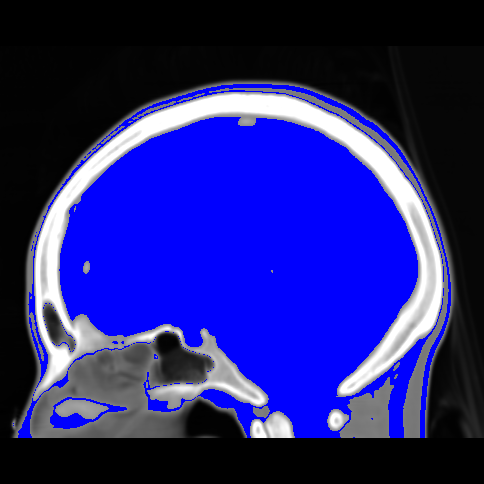
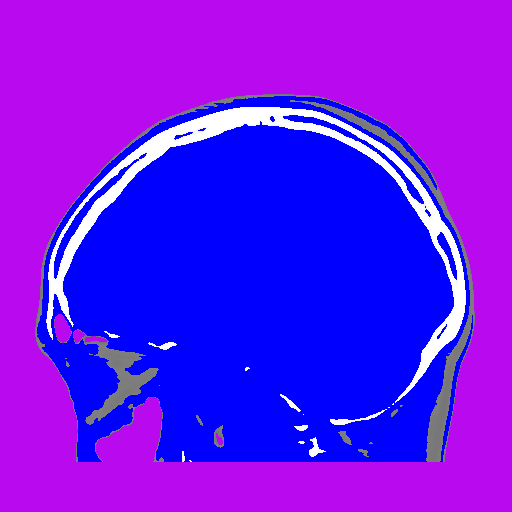
-

diff --git a/Librerias Lectura DICOM/Prueba Garo/Read_File_DICOM_Interfaz.py b/Librerias Lectura DICOM/Prueba Garo/Read_File_DICOM_Interfaz.py
@@ -13,7 +13,8 @@ Colores = {'azul' : (HexToDec('00'), HexToDec('00'), HexToDec('ff')),
 		   'amarillo' : (239, 235, 9),
 		   'naranja' : (239, 174, 9),
 		   'morado' : (185, 9, 239),
-		   'verde' : (44, 239, 9)
+		   'verde' : (44, 239, 9),
+		   'negro' : (0, 0, 0)
 		  }
 
 
@@ -32,6 +33,8 @@ def Umbralizacion(x, y, pixeles):
 			if j >= x + 1000 and j <= y + 1000:
 				
 				vectorAux.append(Colores['azul'])
+			elif j >= 0 and j <= 900:
+				vectorAux.append(Colores['morado'])
 			else:
 				a = EscalaGrises(j)
 				vectorAux.append((a, a, a))
@@ -45,8 +48,8 @@ forward = NavigationToolbar2.forward
 
 position = 0
 A = []
-path = "/home/alexis/Escritorio/imgDicom"
-path = "/home/garo/Documents/Trabajo-Terminal/Ejemplos Archivos DICOM/Ejemplo CD DICOM"
+path = "C:\\Users\\lenovo\\Documents\\GitHub\\Trabajo-Terminal\\Ejemplos Archivos DICOM\\Ejemplo CD DICOM"   # Ruta Windows
+#path = "/home/garo/Documents/Trabajo-Terminal/Ejemplos Archivos DICOM/Ejemplo CD DICOM"  # Ruta Ubuntu
 print path
 
 def new_home(self, *args, **kwargs):
@@ -77,12 +80,7 @@ for fil in dirs:
 	aux = path + "/" + fil 
 	A.append(dicom.read_file(aux))			
 
-binarizacion = Umbralizacion(0, 100, A[0].pixel_array)
-#print binarizacion
-
-# im = Image.open("image.png")
-# a = list(im.getdata())
-# im.putdata(binarizacion)
+binarizacion = Umbralizacion(0, 900, A[0].pixel_array)
 N = len(binarizacion)
 M = len(binarizacion[0])
 img = Image.new('RGB', (N, M))
@@ -98,6 +96,7 @@ img.save('myimg.png')
 #im = pylab.imshow(binarizacion, interpolation='none', aspect='auto')
 #pylab.colorbar(im, orientation='horizontal')
 # pylab.show()
-pylab.imshow(A[0].pixel_array, cmap = pylab.cm.bone)
+pylab.imshow(img)
+#pylab.imshow(A[0].pixel_array, cmap = pylab.cm.bone)
 pylab.show()
 
